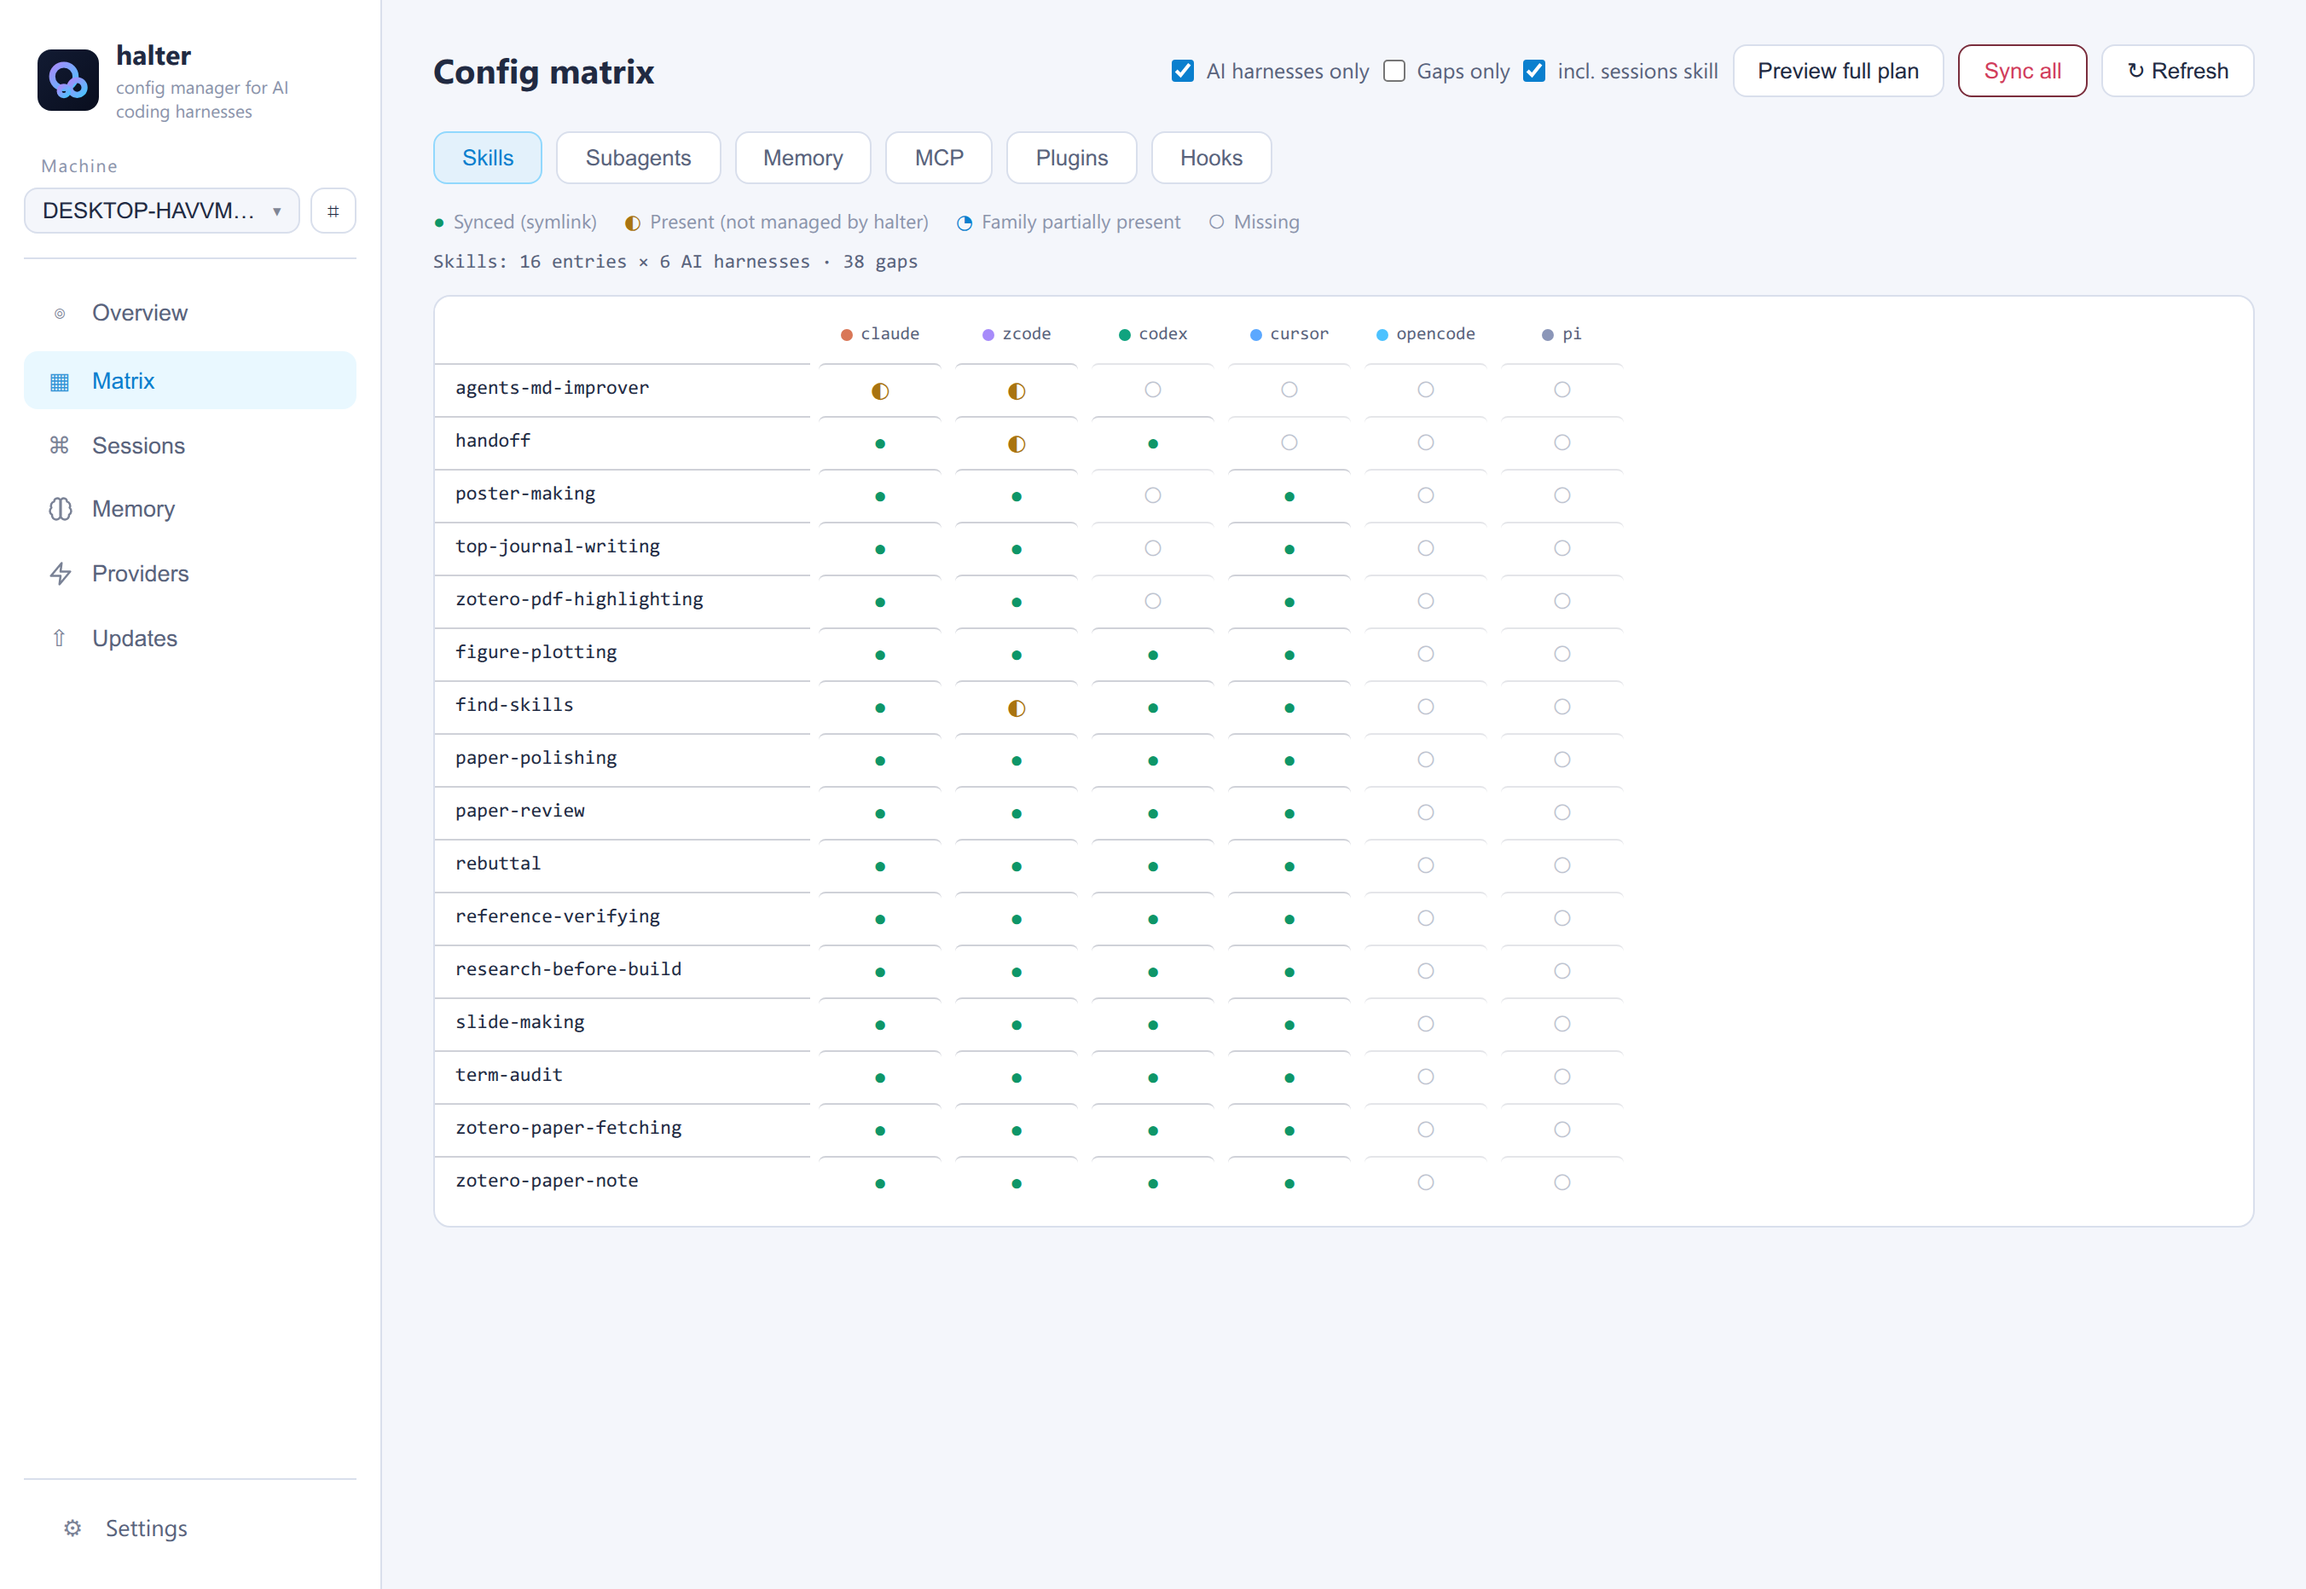
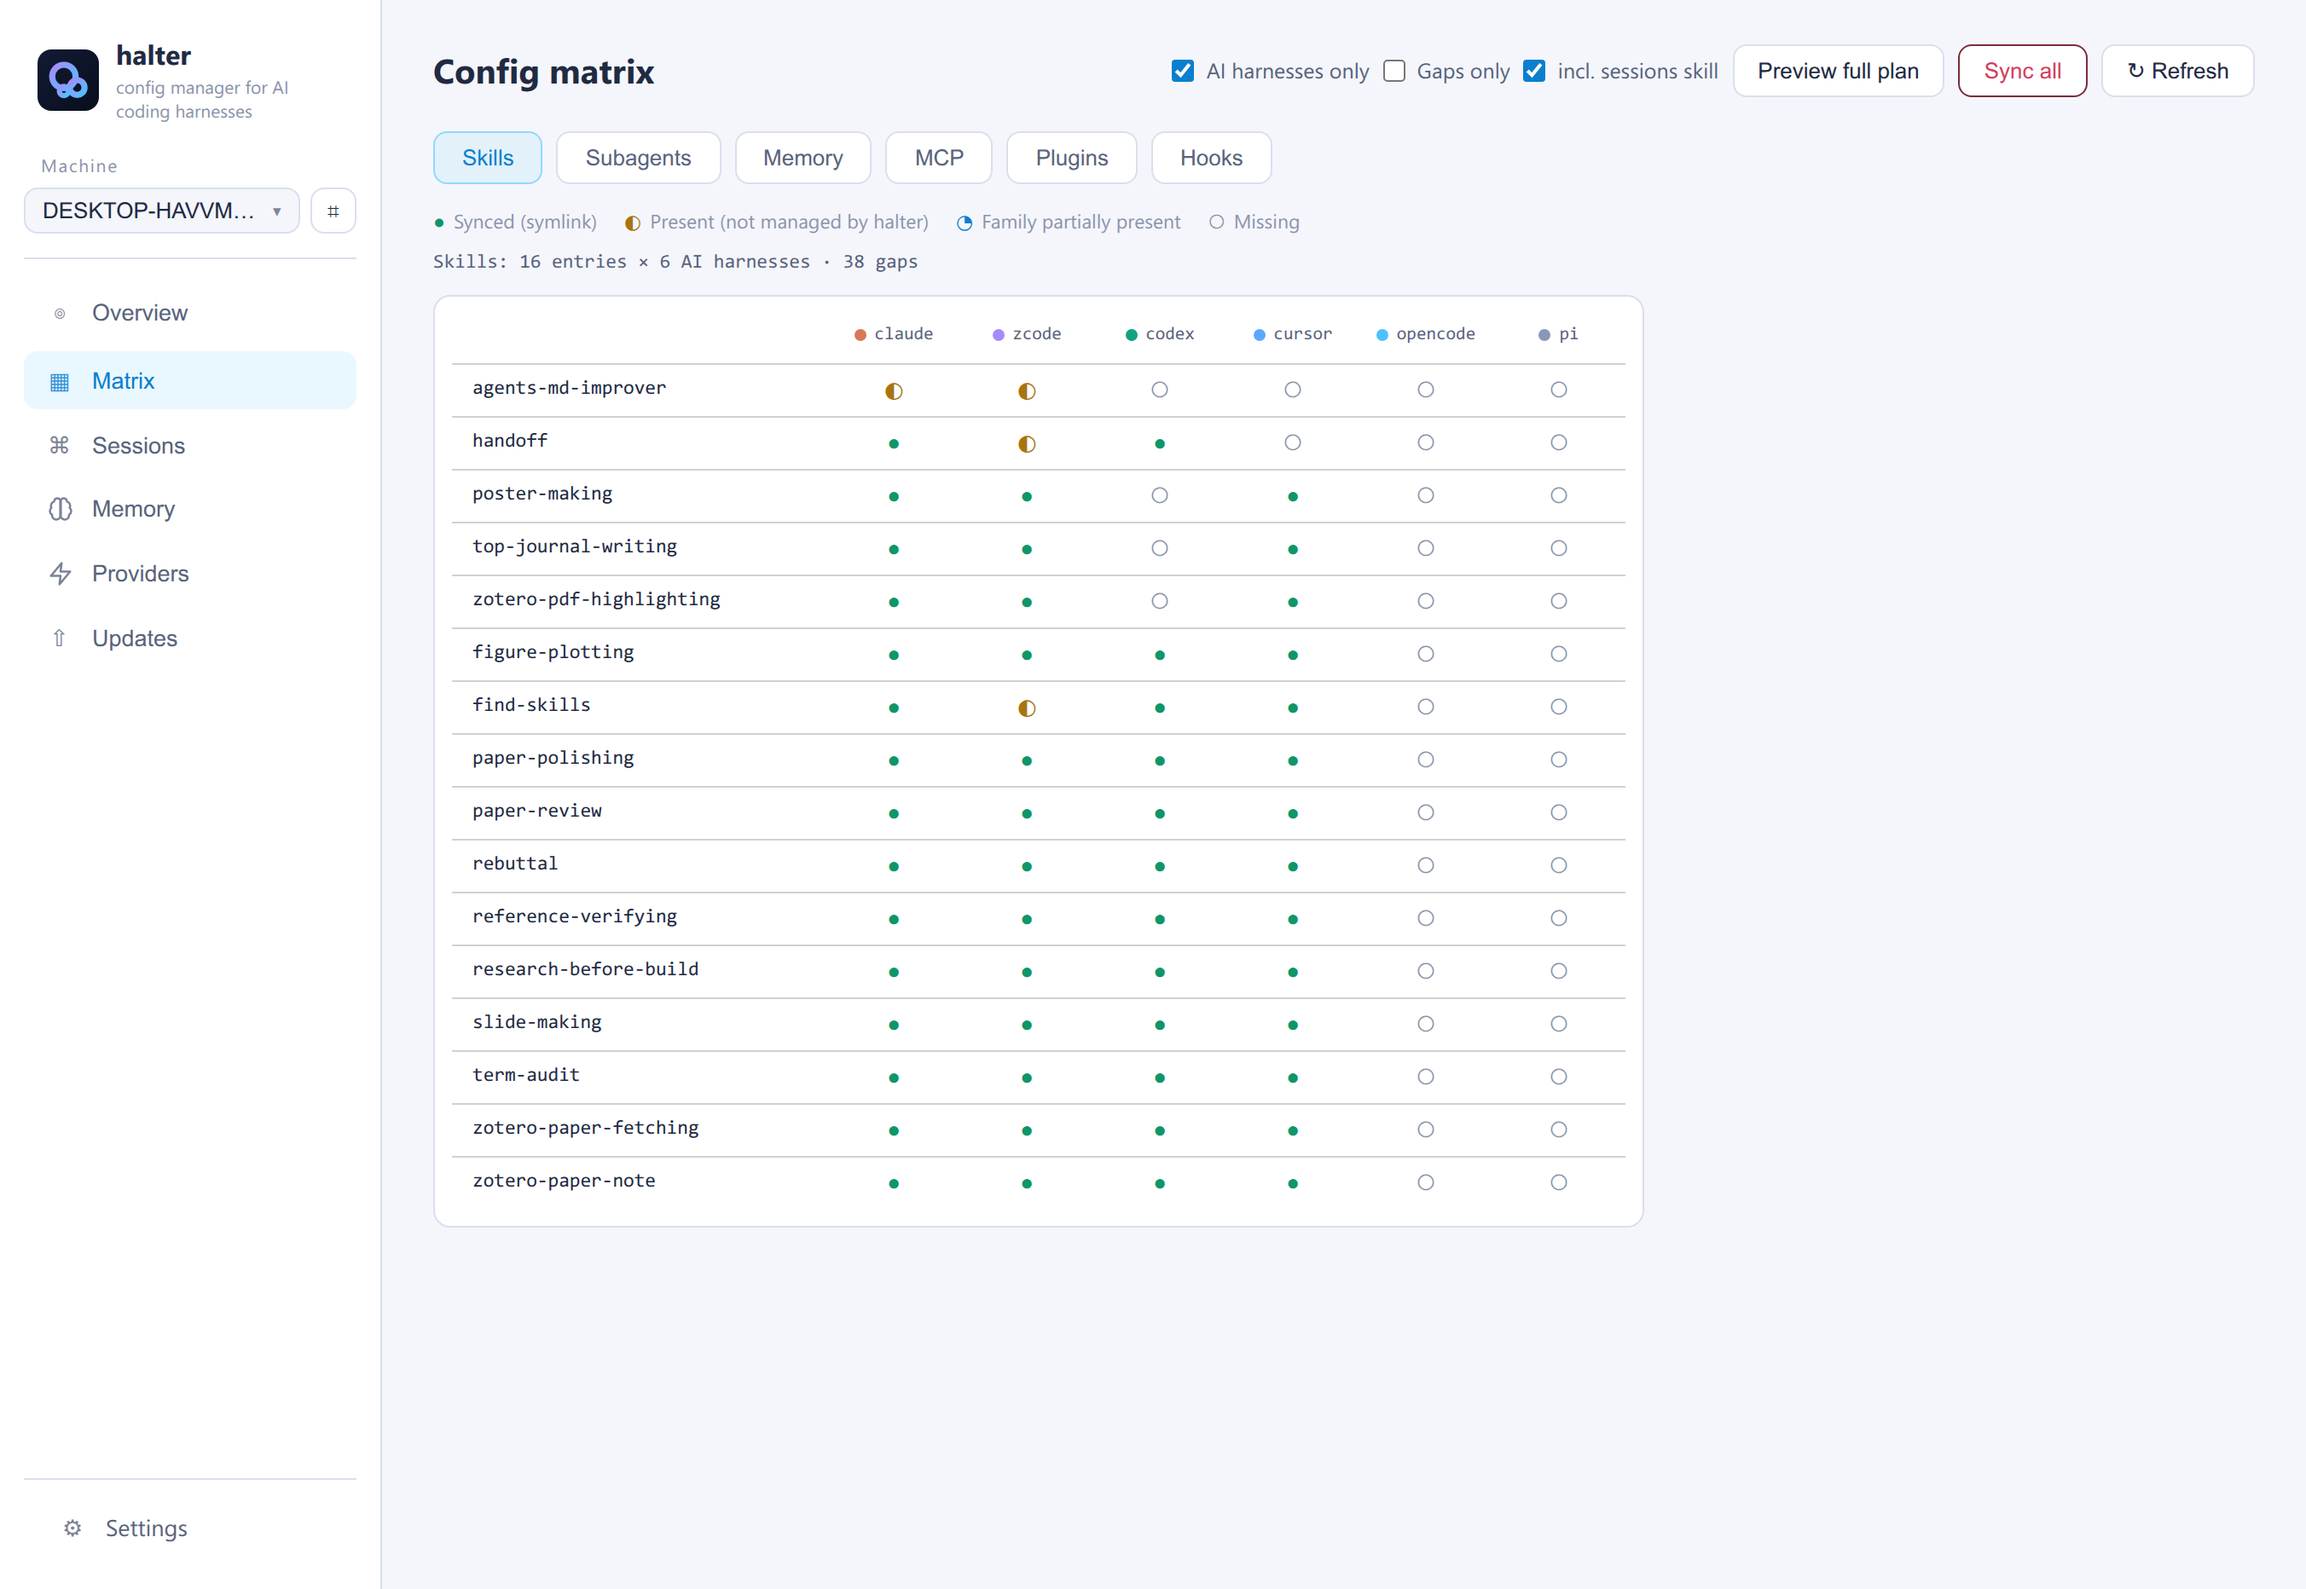
fix: restore matrix row separators and fit card to content
- 修复 --hairline 自引用循环：主题重构把 :root 深色定义写成 var(--hairline) 自身，
  深色主题下所有 hairline 分隔线（矩阵行线/会话/记忆 diff）静默消失；远端同病，随本提交治愈
- 行线深浅不均：missing 格去掉整体 opacity（会连 border-top 压暗），只压暗字形并与图例
  「缺少」色对齐；悬停反馈改字形提亮
- 卡片贴合内容：去掉 .matrix 的 min-width:100%，wrap 改 fit-content（工具多时仍占满 + 横向滚动）
- 重截矩阵中英截图；desktop e2e 22 绿

diff --git a/desktop/ui/style.css b/desktop/ui/style.css
@@ -14,7 +14,7 @@
   --amber: #ffc65c;
   --violet: #a78bfa;
   --radius: 10px;
-  --hairline: var(--hairline);
+  --hairline: rgba(139, 150, 184, .16);
   --shadow: 0 12px 32px rgba(0, 0, 0, .45);
   --mono: "SF Mono", ui-monospace, "Cascadia Code", Menlo, Consolas, monospace;
 }
@@ -777,18 +777,23 @@ h2 { font-size: 13px; font-weight: 600; color: var(--text-dim); margin: 22px 0 1
   margin-bottom: 12px;
 }
 
+/* 卡片贴合内容宽度（内容窄于面板时不再空一大截），工具多时回退为占满 + 横向滚动 */
 .matrix-wrap {
   overflow-x: auto;
+  width: fit-content;
+  max-width: 100%;
   border: 1px solid var(--border);
   border-radius: var(--radius);
   background: var(--bg-raise);
-  padding: 6px 10px 12px 0;
+  padding: 6px 10px 12px 10px;
 }
 
 .matrix {
   display: inline-grid;
-  gap: 2px;
-  min-width: 100%;
+  /* 行分隔线要连续：水平不留 gap（间隔改由 cell 的 padding 提供），
+     垂直 gap 只影响行间距、不切断 border-top */
+  column-gap: 0;
+  row-gap: 2px;
 }
 
 .mx-corner { position: sticky; left: 0; z-index: 2; background: var(--bg-raise); }
@@ -817,16 +822,18 @@ h2 { font-size: 13px; font-weight: 600; color: var(--text-dim); margin: 22px 0 1
   display: flex; align-items: center; justify-content: center;
   font-size: 13px;
   border-top: 1px solid var(--hairline);
-  border-radius: 4px;
-  margin: 0 3px;
+  border-radius: 0;
+  padding: 0 3px;   /* 用 padding 而非 margin 提供间隔：margin 会把行分隔线切成断续段 */
 }
 .mx-cell.synced { color: var(--green); }
 .mx-cell.present { color: var(--amber); }
-.mx-cell.missing { color: var(--text-faint); opacity: .55; }
+/* 只压暗字形、不用 opacity：opacity 会连 border-top 一起压暗，行分隔线深浅不均 */
+.mx-cell.missing { color: var(--text-faint); }
 
 /* 可点击单元格：点一下圆点 = 同步该条目到该工具 */
-.mx-cell.clickable { cursor: pointer; transition: background .12s, opacity .12s; }
-.mx-cell.clickable:hover { background: var(--bg-hover); opacity: 1; }
+.mx-cell.clickable { cursor: pointer; transition: background .12s; }
+.mx-cell.clickable:hover { background: var(--bg-hover); }
+.mx-cell.clickable.missing:hover { color: var(--text-dim); }
 .mx-cell.syncing {
   cursor: wait;
   pointer-events: none;
